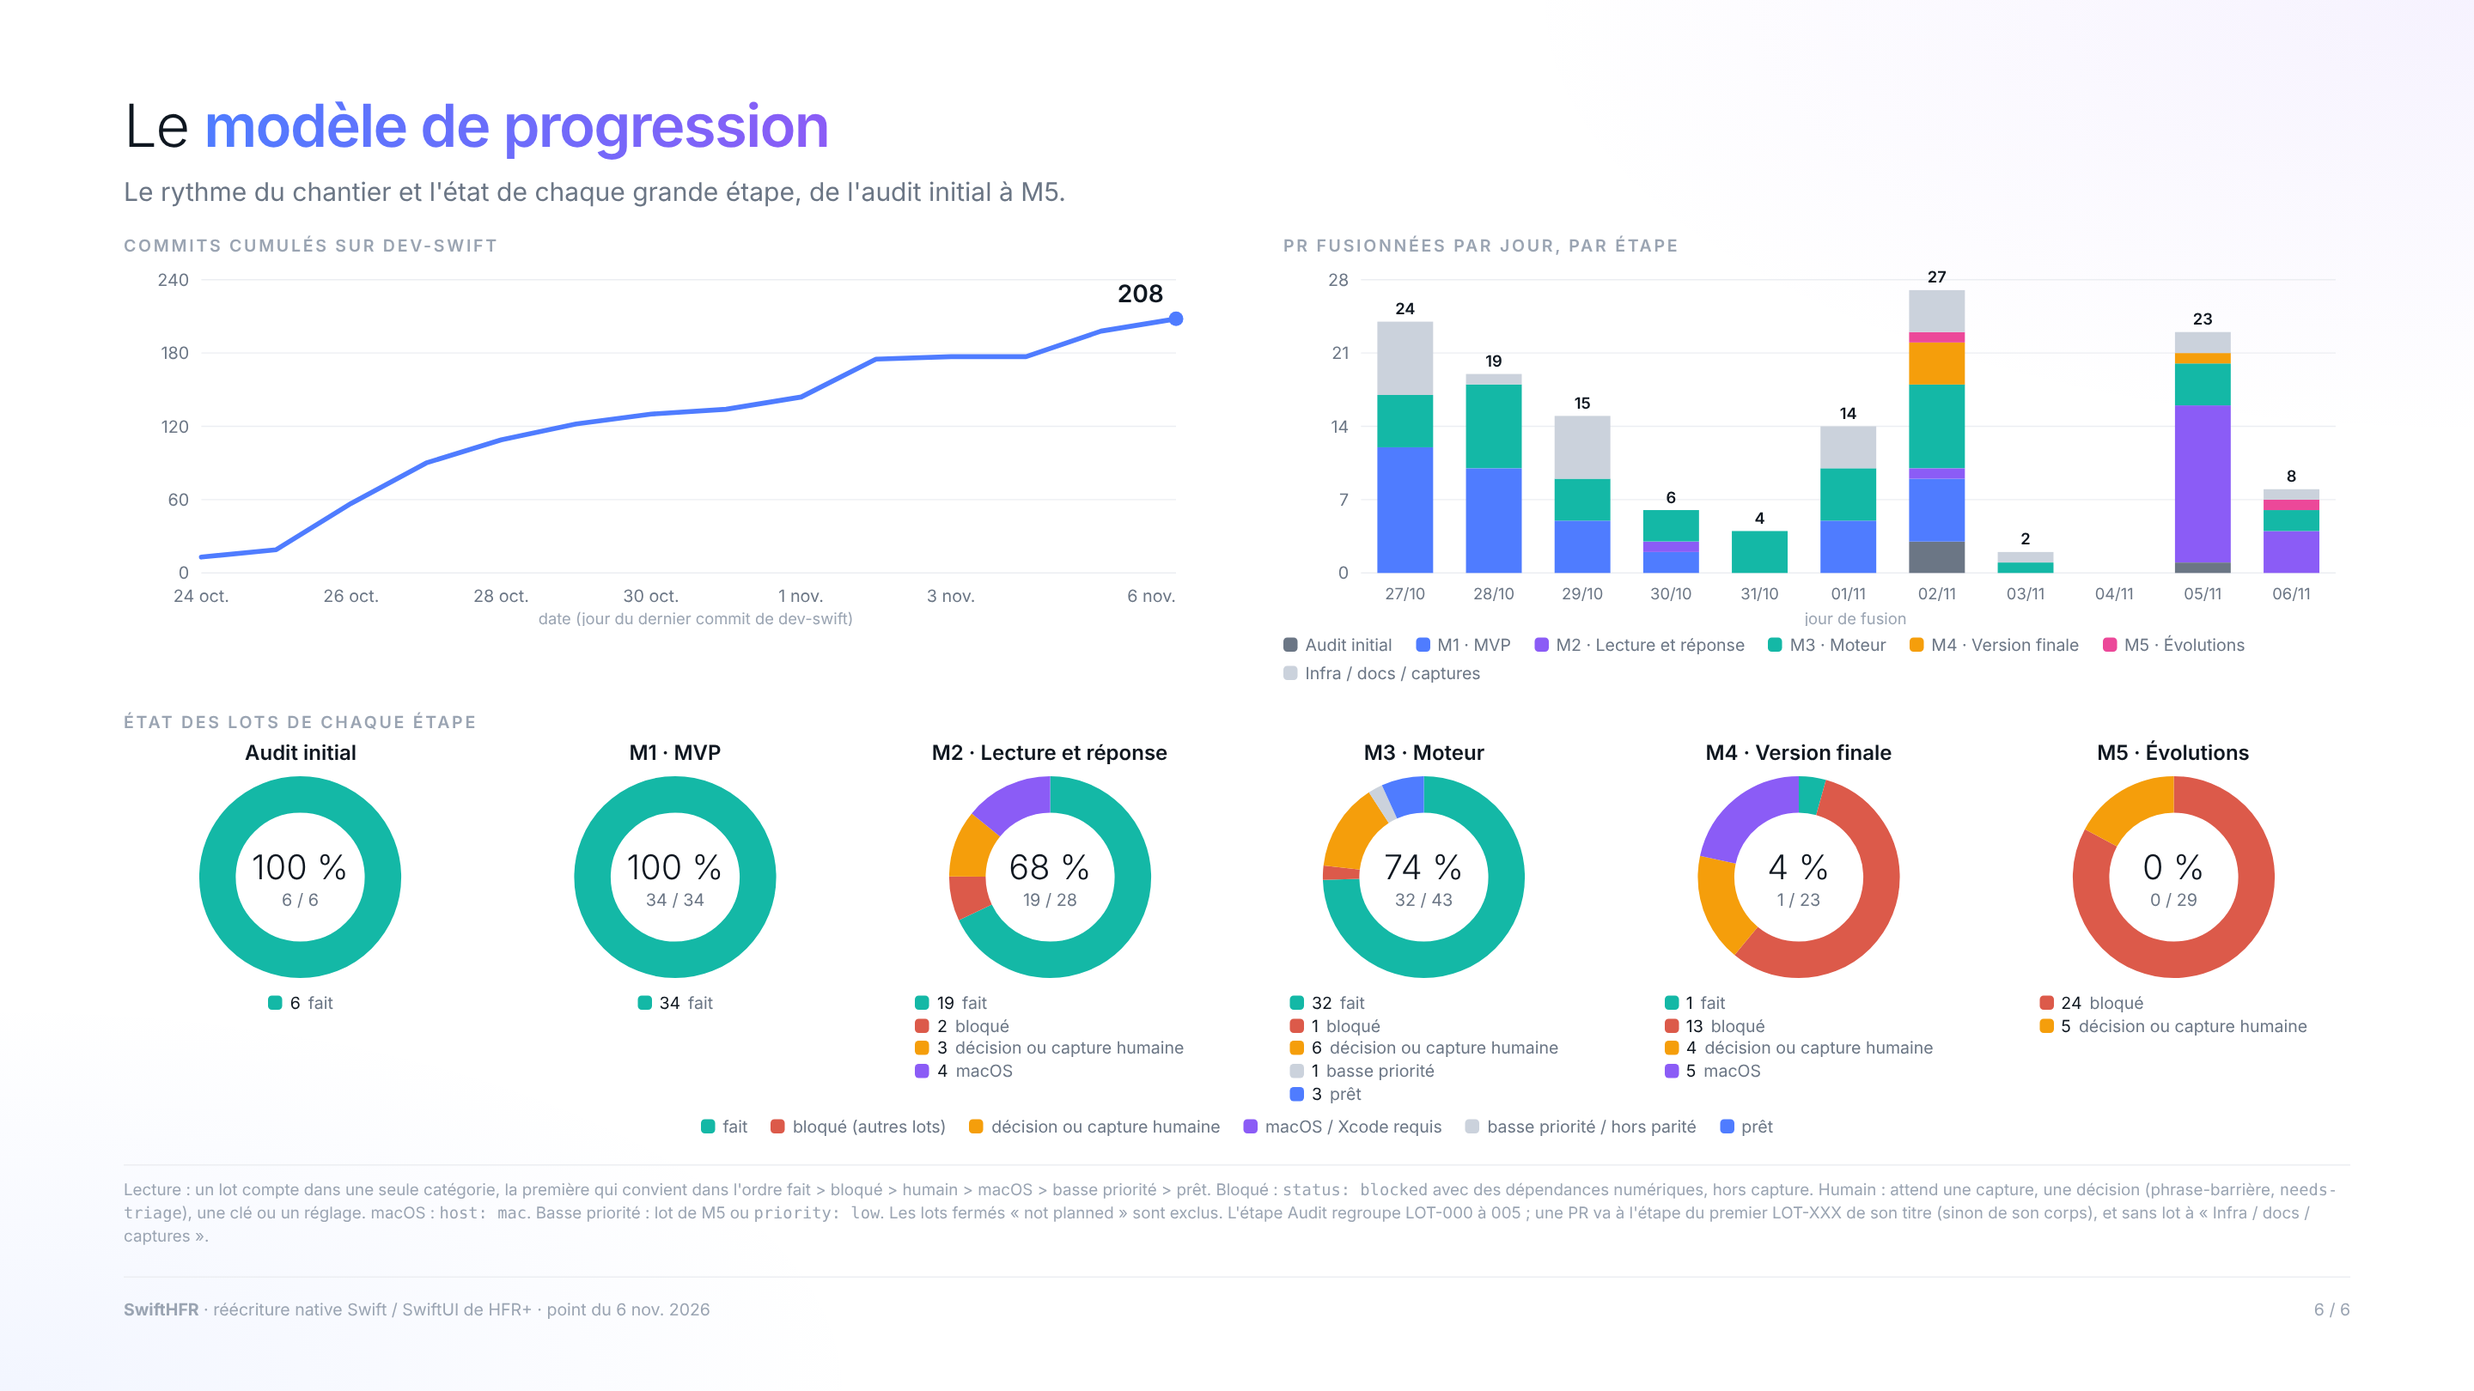
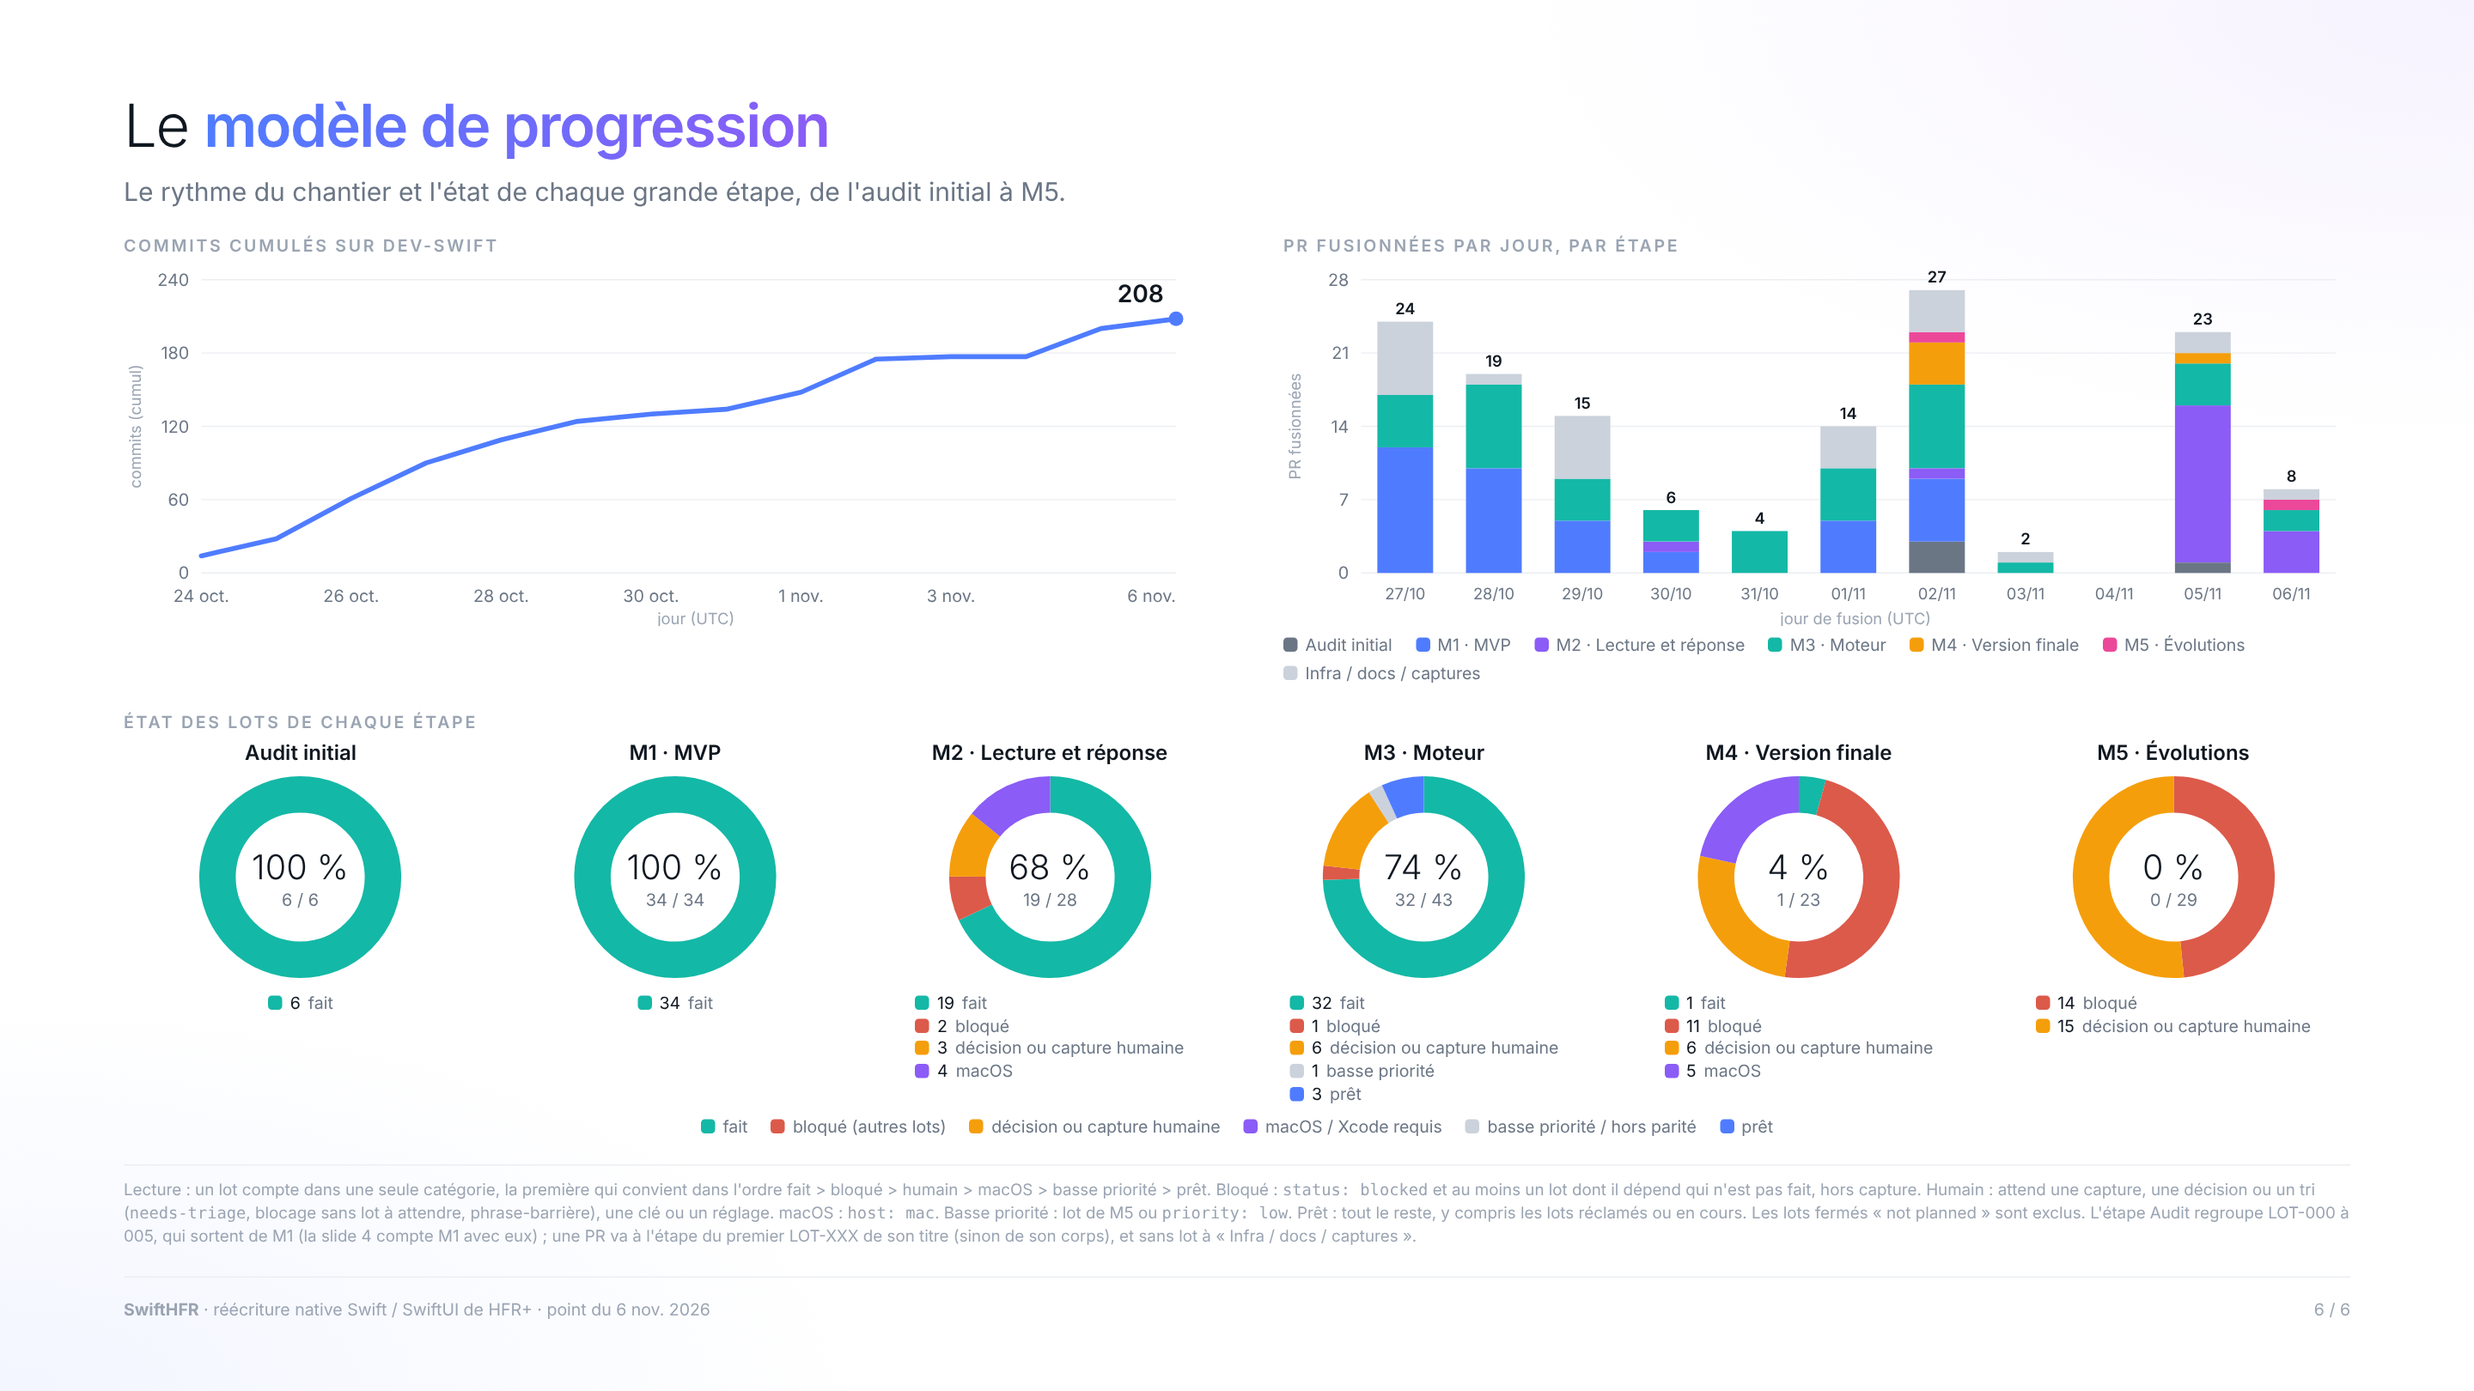
fix: weekly progress slide after the adversarial review
UTC days and the latest day seen, empty data, blocked means a lot not done,
every lot number of a title tried, axis titles, weekly bars from 21 days,
footnote and tests.

Claude-Session: https://claude.ai/code/session_014QH2CEBkjmFApUaMrewUvD

diff --git a/tooling/roadmap/weekly/progress.py b/tooling/roadmap/weekly/progress.py
@@ -7,7 +7,7 @@ import html
 import re
 import subprocess
 from collections import Counter, OrderedDict
-from datetime import date, datetime, timedelta
+from datetime import date, datetime, timedelta, timezone
 from pathlib import Path
 
 HERE = Path(__file__).resolve().parent
@@ -27,7 +27,7 @@ MONTHS = ['janv.', 'févr.', 'mars', 'avr.', 'mai', 'juin', 'juil.', 'août', 's
 
 
 def step_of_lot(lot):
-    """Audit is LOT-000..005 (Phase 0 of the ROADMAP: audit and tooling); every other lot has its milestone."""
+    """Audit is LOT-000..005 (the audit and tooling lots of Phase 0, ROADMAP); they leave M1 here, every other lot keeps its milestone."""
     if G.n(lot) <= 5:
         return 'Audit'
     for m, ms in (('M1', G.M1), ('M2', G.M2), ('M3', G.M3), ('M4', G.M4), ('M5', G.M5)):
@@ -39,9 +39,9 @@ def step_of_lot(lot):
 def step_of_pr(p):
     """The first LOT-XXX of the title, else of the body; no lot means infra, docs or captures."""
     for text in (p.get('title') or '', p.get('body') or ''):
-        m = LOT.search(text)
-        if m and f'LOT-{m.group(1)}' in G.rows:
-            return step_of_lot(f'LOT-{m.group(1)}') or OTHER
+        for m in LOT.finditer(text):
+            if f'LOT-{m.group(1)}' in G.rows:  # a number that is not a lot of the plan is skipped
+                return step_of_lot(f'LOT-{m.group(1)}') or OTHER
     return OTHER
 
 
@@ -50,11 +50,11 @@ def bucket(lot, labels):
     if G.done(lot):
         return 'done'
     n = r['issue']
-    has_numeric_deps = bool(G.deps(r))
     capture = n in G.CAPTURE
-    if 'status: blocked' in labels and has_numeric_deps and not capture:
+    if 'status: blocked' in labels and G.miss0(r) and not capture:  # waits on a lot of the plan that is not done
         return 'blocked'
-    if capture or 'status: needs-triage' in labels or ('status: blocked' in labels and not has_numeric_deps):
+    # a capture, a triage, or a block with no lot left to wait for (gate sentence, M5 not open, a decision) needs a human
+    if capture or 'status: needs-triage' in labels or 'status: blocked' in labels:
         return 'human'
     if 'host: mac' in labels:
         return 'mac'
@@ -64,36 +64,46 @@ def bucket(lot, labels):
 
 
 def git_days():
-    out = subprocess.run("git log origin/dev-swift --format=%cd --date=format:%Y-%m-%d", shell=True, capture_output=True, text=True,
-                         cwd=HERE.parents[2]).stdout.split()
+    out = subprocess.run("TZ=UTC git log origin/dev-swift --format=%cd --date=format-local:%Y-%m-%d", shell=True, capture_output=True, text=True,
+                         cwd=HERE.parents[2]).stdout.split()  # UTC days, like the PR timestamps
     return Counter(out)
 
 
-def data(pulls, issues):
-    """Numbers of the slide. `pulls`: merged PRs of dev-swift; `issues`: every issue (not PR) with its labels."""
+WEEKLY_FROM_DAYS = 21  # daily bars up to three weeks of history, weekly bars after
+
+
+def data(pulls, issues, per_day=None, today=None):
+    """Numbers of the slide. `pulls`: merged PRs of dev-swift; `issues`: every issue (not PR) with its labels.
+    `per_day` (commits per UTC day) and `today` are injectable for the tests."""
     by_n = {i['number']: i for i in issues}
-    # 1. commits per day, cumulative, from the first commit to today
-    per_day = git_days()
-    first = date.fromisoformat(min(per_day))
-    today = datetime.now().date()
-    cum, total, d = [], 0, first
-    while d <= today:
-        total += per_day.get(d.isoformat(), 0)
-        cum.append((d.isoformat(), total))
-        d += timedelta(days=1)
-    # 2. merged PRs per bin (a day while the project is young, a week from 6 weeks on), stacked by step
+    per_day = git_days() if per_day is None else per_day
     merged = [(date.fromisoformat(p['merged_at'][:10]), step_of_pr(p)) for p in pulls if p.get('merged_at')]
-    start = min(x for x, _ in merged)
-    weekly = (today - start).days >= 42
-    key = (lambda x: x - timedelta(days=x.weekday())) if weekly else (lambda x: x)
-    step = timedelta(days=7 if weekly else 1)
+    # today is the UTC day, never before the last commit or merge seen (a runner behind UTC must not drop them)
+    today = today or datetime.now(timezone.utc).date()
+    seen = [date.fromisoformat(d) for d in per_day] + [x for x, _ in merged]
+    today = max([today] + seen)
+    # 1. commits per day, cumulative, from the first commit to today
+    cum = []
+    if per_day:
+        total, d = 0, date.fromisoformat(min(per_day))
+        while d <= today:
+            total += per_day.get(d.isoformat(), 0)
+            cum.append((d.isoformat(), total))
+            d += timedelta(days=1)
+    # 2. merged PRs per bin (a day while the project is young, a week after), stacked by step
     bins = OrderedDict()
-    b = key(start)
-    while b <= today:
-        bins[b.isoformat()] = Counter()
-        b += step
-    for x, s in merged:
-        bins[key(x).isoformat()][s] += 1
+    weekly = False
+    if merged:
+        start = min(x for x, _ in merged)
+        weekly = (today - start).days >= WEEKLY_FROM_DAYS
+        key = (lambda x: x - timedelta(days=x.weekday())) if weekly else (lambda x: x)
+        step = timedelta(days=7 if weekly else 1)
+        b = key(start)
+        while b <= today:
+            bins[b.isoformat()] = Counter()
+            b += step
+        for x, s in merged:
+            bins.setdefault(key(x).isoformat(), Counter())[s] += 1
     # 3. state of each step: lots counted in exactly one bucket (dropped lots, closed not planned, are left out)
     steps = {s: Counter() for s in STEPS}
     for lot in G.rows:
@@ -119,7 +129,13 @@ def _ticks(mx, n=4):
     return list(range(0, mx + step, step))
 
 
+def _empty(msg):
+    return f'<svg viewBox="0 0 880 300" width="100%"><text x="440" y="150" text-anchor="middle" font-size="18" fill="#9aa4b2">{msg}</text></svg>'
+
+
 def _line_chart(cum):
+    if not cum:
+        return _empty('Aucun commit')
     W, H, L, B, T = 880, 300, 64, 44, 14
     ys = _ticks(cum[-1][1])
     top = ys[-1]
@@ -136,11 +152,13 @@ def _line_chart(cum):
     pts = ' '.join(f'{px(i):.1f},{py(v):.1f}' for i, (_, v) in enumerate(cum))
     s += f'<polyline points="{pts}" fill="none" stroke="#4f7cff" stroke-width="4" stroke-linejoin="round" stroke-linecap="round"/>'
     s += f'<circle cx="{px(len(cum) - 1)}" cy="{py(cum[-1][1])}" r="6" fill="#4f7cff"/><text x="{px(len(cum) - 1) - 10}" y="{py(cum[-1][1]) - 14}" text-anchor="end" font-size="20" font-weight="600" fill="#0f1720">{cum[-1][1]}</text>'
-    s += f'<text x="{L + (W - L) / 2}" y="{H - 2}" text-anchor="middle" font-size="13" fill="#9aa4b2">date (jour du dernier commit de dev-swift)</text></svg>'
+    s += f'<text x="{L + (W - L) / 2}" y="{H - 2}" text-anchor="middle" font-size="13" fill="#9aa4b2">jour (UTC)</text><text transform="rotate(-90 14 {T + (H - T - B) / 2})" x="14" y="{T + (H - T - B) / 2}" text-anchor="middle" font-size="13" fill="#9aa4b2">commits (cumul)</text></svg>'
     return s
 
 
 def _stacked(bins, weekly):
+    if not bins:
+        return _empty('Aucune PR fusionnée')
     W, H, L, B, T = 880, 300, 64, 44, 14
     order = STEPS + [OTHER]
     tot = {k: sum(v.values()) for k, v in bins.items()}
@@ -165,7 +183,7 @@ def _stacked(bins, weekly):
             s += f'<text x="{x + bw / 2:.1f}" y="{py(acc) - 6:.1f}" text-anchor="middle" font-size="13" font-weight="600" fill="#0f1720">{tot[b]}</text>'
         if n <= 16 or k % 2 == 0:
             s += f'<text x="{x + bw / 2:.1f}" y="{H - 22}" text-anchor="middle" font-size="13" fill="#6b7685">{b[8:10]}/{b[5:7]}</text>'
-    s += f'<text x="{L + (W - L) / 2}" y="{H - 2}" text-anchor="middle" font-size="13" fill="#9aa4b2">{"semaine (lundi)" if weekly else "jour de fusion"}</text></svg>'
+    s += f'<text x="{L + (W - L) / 2}" y="{H - 2}" text-anchor="middle" font-size="13" fill="#9aa4b2">{"semaine (lundi, UTC)" if weekly else "jour de fusion (UTC)"}</text><text transform="rotate(-90 14 {T + (H - T - B) / 2})" x="14" y="{T + (H - T - B) / 2}" text-anchor="middle" font-size="13" fill="#9aa4b2">PR fusionnées</text></svg>'
     return s
 
 
@@ -213,7 +231,7 @@ def slide(D, page):
 <div><div class="lbl">État des lots de chaque étape</div>
 <div class="donuts">{''.join(_donut(s, P['steps'][s]) for s in STEPS)}</div><div class="leg" style="justify-content:center;margin-top:8px">{legend_buckets}</div></div>
 <p class="note">Lecture : un lot compte dans une seule catégorie, la première qui convient dans l'ordre fait &gt; bloqué &gt; humain &gt; macOS &gt; basse priorité &gt; prêt.
-Bloqué : <code>status: blocked</code> avec des dépendances numériques, hors capture. Humain : attend une capture, une décision (phrase-barrière, <code>needs-triage</code>), une clé ou un réglage.
-macOS : <code>host: mac</code>. Basse priorité : lot de M5 ou <code>priority: low</code>. Les lots fermés « not planned » sont exclus. L'étape Audit regroupe LOT-000 à 005 ; une PR va à l'étape du premier LOT-XXX de son titre (sinon de son corps), et sans lot à « {OTHER} ».</p>
+Bloqué : <code>status: blocked</code> et au moins un lot dont il dépend qui n'est pas fait, hors capture. Humain : attend une capture, une décision ou un tri (<code>needs-triage</code>, blocage sans lot à attendre, phrase-barrière), une clé ou un réglage.
+macOS : <code>host: mac</code>. Basse priorité : lot de M5 ou <code>priority: low</code>. Prêt : tout le reste, y compris les lots réclamés ou en cours. Les lots fermés « not planned » sont exclus. L'étape Audit regroupe LOT-000 à 005, qui sortent de M1 (la slide 4 compte M1 avec eux) ; une PR va à l'étape du premier LOT-XXX de son titre (sinon de son corps), et sans lot à « {OTHER} ».</p>
 </div>"""
     return page(6, "Le <b>modèle de progression</b>", "Le rythme du chantier et l'état de chaque grande étape, de l'audit initial à M5.", inner, D)

diff --git a/scripts/tests/test_roadmap.py b/scripts/tests/test_roadmap.py
@@ -2,7 +2,7 @@
 import sys
 import unittest
 from unittest import mock
-from datetime import datetime, timezone
+from datetime import date, datetime, timezone
 from pathlib import Path
 
 ROADMAP = Path(__file__).resolve().parents[2] / "tooling" / "roadmap"
@@ -323,6 +323,45 @@ class ProgressSlide(unittest.TestCase):
         self.assertEqual(progress.step_of_pr({"title": "docs: fix a typo", "body": "Refs LOT-080"}), "M1")
         self.assertEqual(progress.step_of_pr({"title": "chore: ci", "body": "Direct-PR"}), progress.OTHER)
         self.assertEqual(progress.step_of_pr({"title": "LOT-999: unknown lot", "body": ""}), progress.OTHER)
+
+    def test_a_blocked_lot_whose_lot_dependencies_are_all_done_needs_a_human_not_other_lots(self):
+        r = next(r for l, r in generate.rows.items() if generate.deps(r))
+        lot = r["lot"]
+        with mock.patch.object(generate, "CAPTURE", {}), mock.patch.object(generate, "CLOSED", set()):
+            with mock.patch.object(generate, "miss0", lambda row: ["LOT-X"]):
+                self.assertEqual(progress.bucket(lot, {"status: blocked"}), "blocked")
+            with mock.patch.object(generate, "miss0", lambda row: []):
+                self.assertEqual(progress.bucket(lot, {"status: blocked"}), "human")
+
+    def test_a_pr_naming_an_unknown_lot_then_a_known_one_goes_to_the_known_step(self):
+        self.assertEqual(progress.step_of_pr({"title": "LOT-999 / LOT-080", "body": ""}), "M1")
+
+    def test_data_bins_by_utc_day_then_week_and_never_drops_a_late_day(self):
+        pulls = [{"merged_at": "2026-11-07T01:00:00Z", "title": "LOT-080", "body": ""}, {"merged_at": "2026-11-05T10:00:00Z", "title": "ci", "body": ""}]
+        d = progress.data(pulls, [], per_day={"2026-11-05": 2, "2026-11-06": 1}, today=date(2026, 11, 6))  # a PR dated after "today"
+        self.assertFalse(d["weekly"])
+        self.assertEqual(list(d["bins"]), ["2026-11-05", "2026-11-06", "2026-11-07"])
+        self.assertEqual(d["bins"]["2026-11-07"], {"M1": 1})
+        self.assertEqual(d["cum"][-1], ("2026-11-07", 3))  # cumulative up to the latest day seen
+        old = [{"merged_at": "2026-09-30T10:00:00Z", "title": "ci", "body": ""}]  # a Wednesday: its bin is the Monday before
+        w = progress.data(old, [], per_day={"2026-09-30": 1}, today=date(2026, 11, 6))
+        self.assertTrue(w["weekly"])
+        self.assertEqual(next(iter(w["bins"])), "2026-09-28")
+        self.assertEqual(w["bins"]["2026-09-28"], {progress.OTHER: 1})
+
+    def test_data_without_commits_or_prs_does_not_crash_and_the_charts_say_so(self):
+        d = progress.data([], [], per_day={}, today=date(2026, 11, 6))
+        self.assertEqual((d["cum"], d["bins"]), ([], {}))
+        self.assertIn("Aucun commit", progress._line_chart(d["cum"]))
+        self.assertIn("Aucune PR", progress._stacked(d["bins"], d["weekly"]))
+        self.assertIn("0 %", progress._donut("M5", {}))  # zero lots in a step
+
+    def test_a_lot_closed_not_planned_is_left_out_of_its_step(self):
+        lot = "LOT-087"
+        i = {"number": generate.rows[lot]["issue"], "state": "closed", "state_reason": "not_planned", "labels": []}
+        before = sum(progress.data([], [], per_day={}, today=date(2026, 11, 6))["steps"][progress.step_of_lot(lot)].values())
+        after = sum(progress.data([], [i], per_day={}, today=date(2026, 11, 6))["steps"][progress.step_of_lot(lot)].values())
+        self.assertEqual(after, before - 1)
 
     def test_a_lot_counts_in_exactly_one_bucket_by_priority(self):
         lot = "LOT-080"
